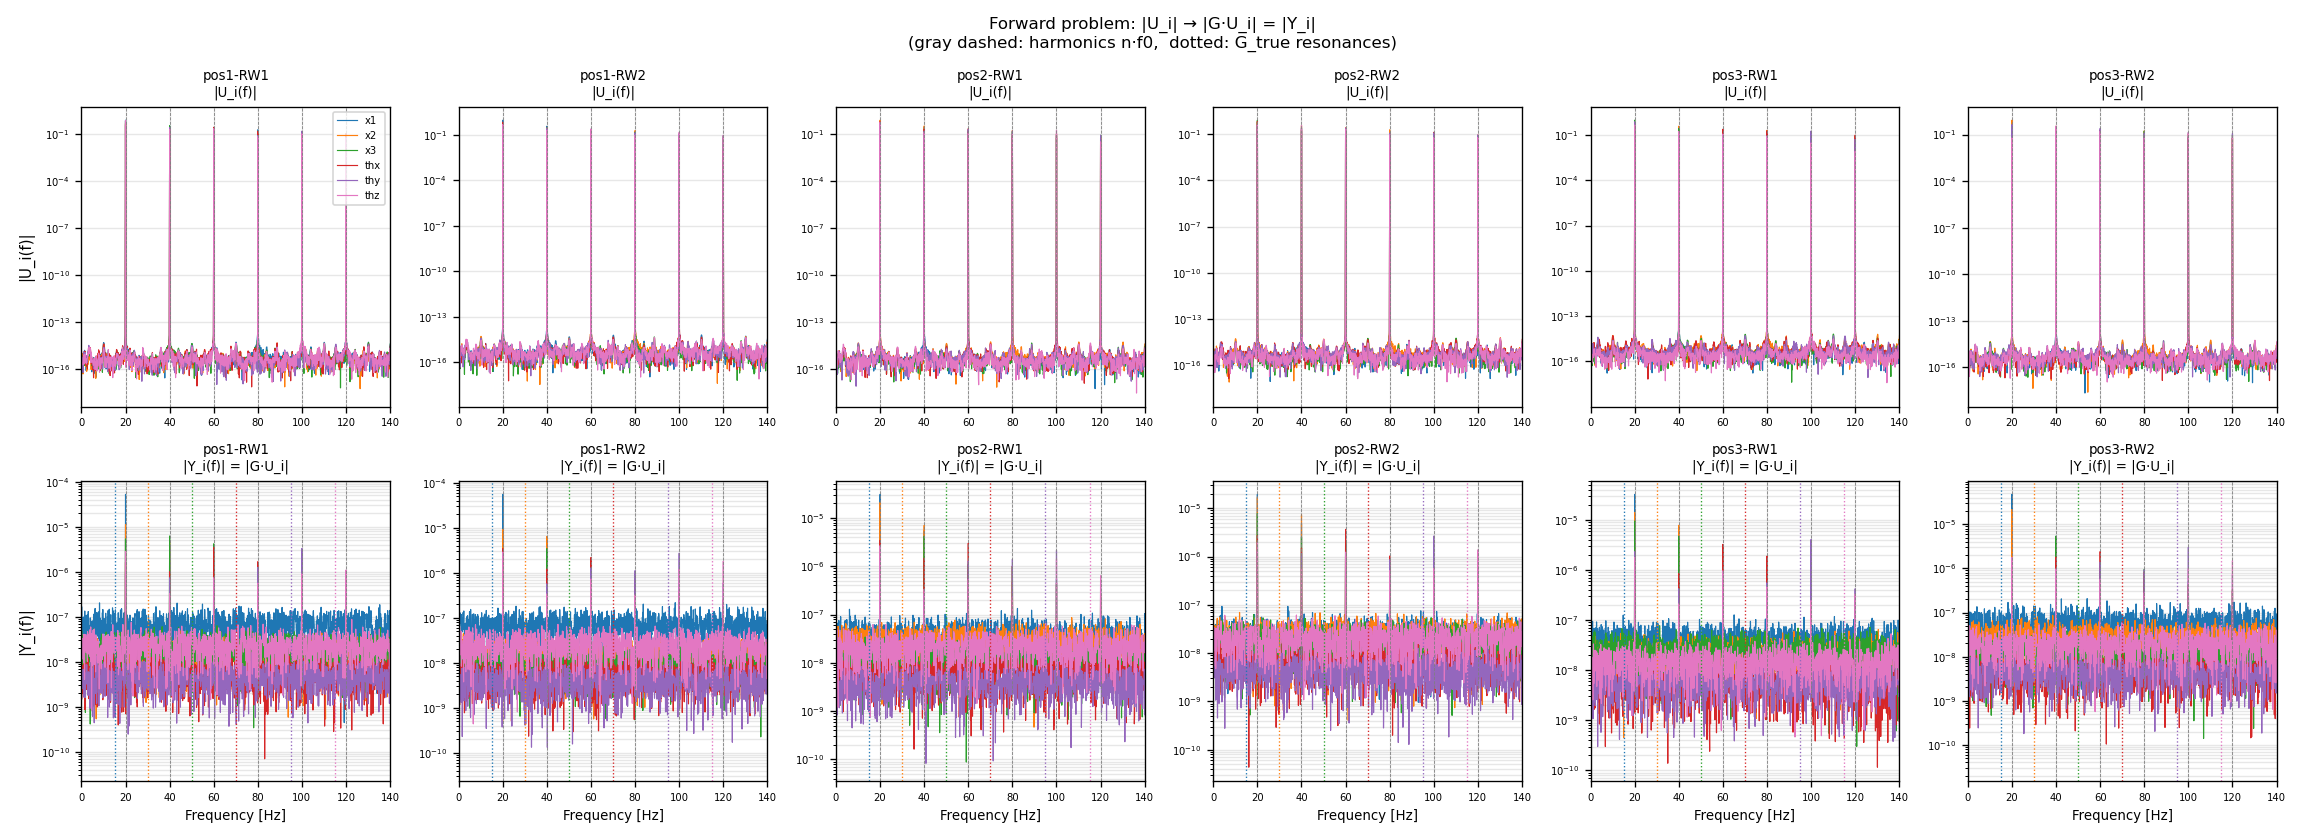
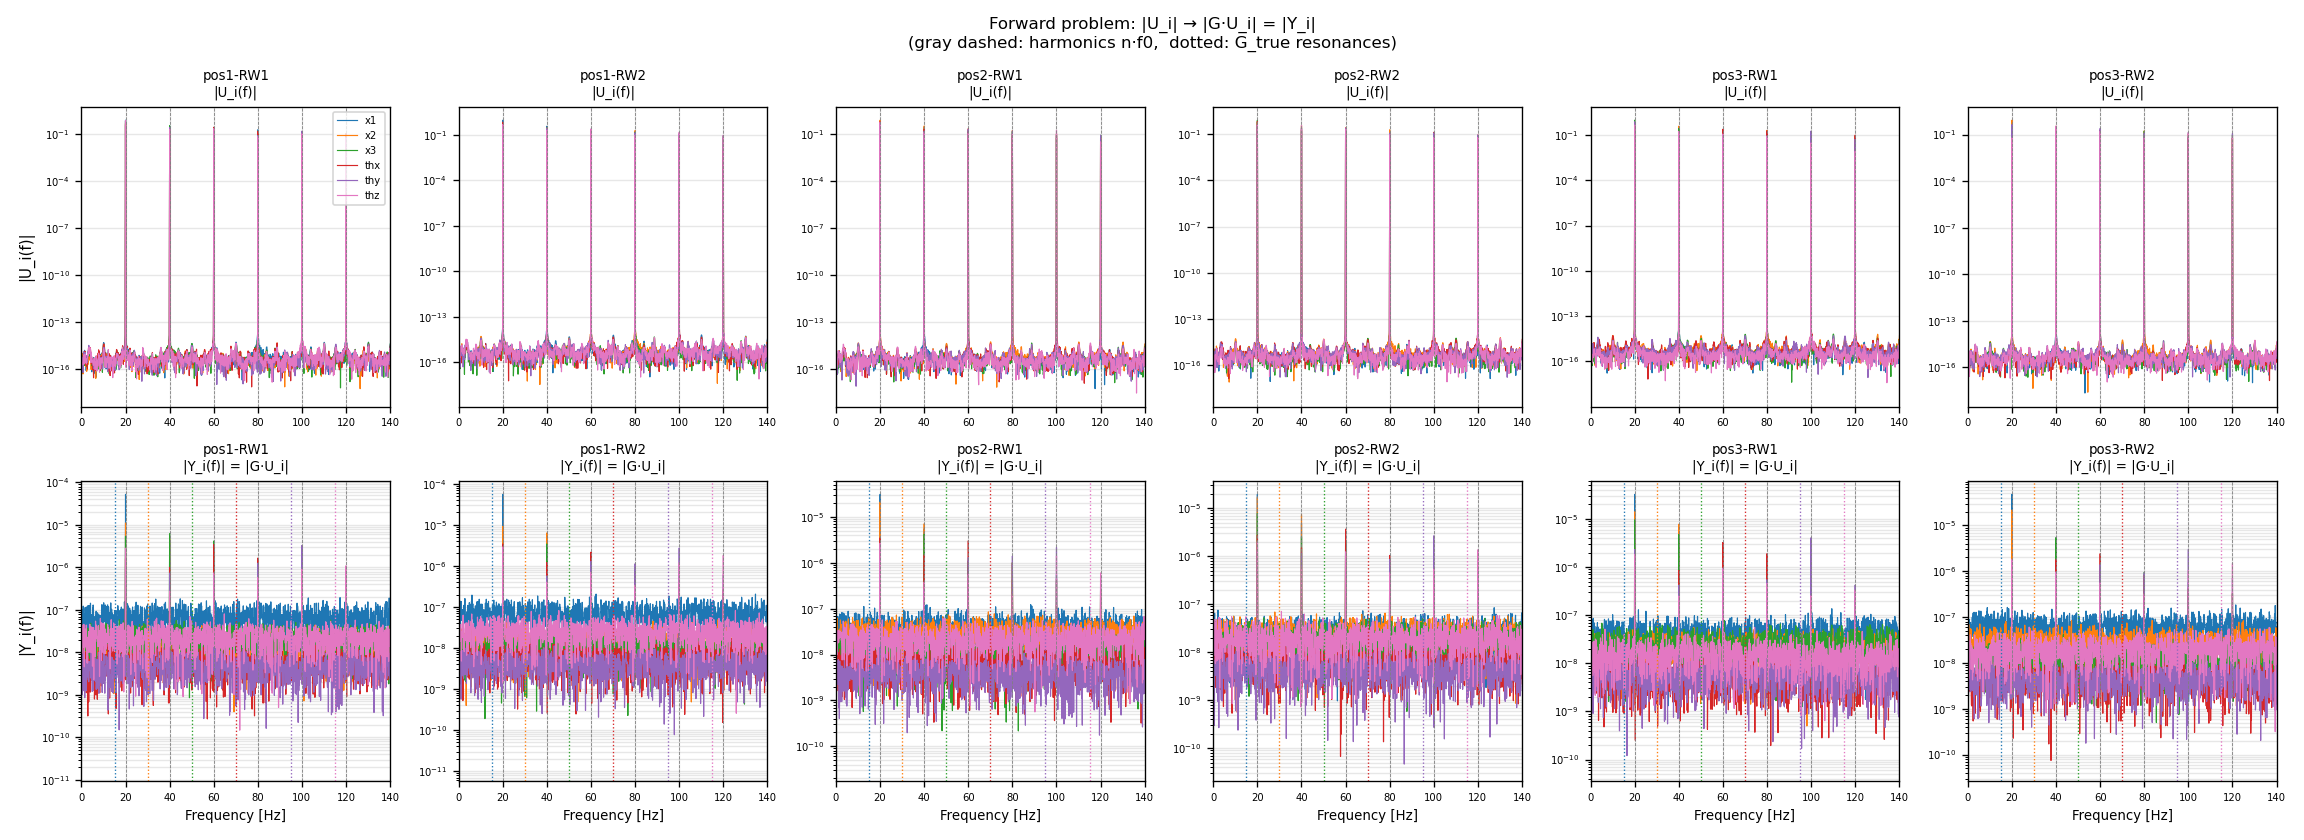
changedrunsh

Changed region(s): [[0.0312, 0.7119, 1.0, 0.8976]]

diff --git a/signal_gen.py b/signal_gen.py
@@ -122,7 +122,7 @@ if __name__ == "__main__":
     from main import t, fs, Omega, n_harmonics
 
     # ---- 成分ごとの振幅スケール [Fx, Fy, Fz, Mx, My, Mz] ----
-    component_scales = np.array([1.0, 1.0, 0.1, 0.015, 0.015, 0.0015])
+    component_scales = np.array([0.7, 0.7, 0.1, 0.07, 0.07, 0.0030])
 
     # ---- Q値（ピークの鋭さ）: 大きいほど鋭い / None で純正弦波 ----
     # 半値幅 = f_n / Q  例: Q=30, f0=20Hz → 1次ピーク幅 ≈ 0.67 Hz
